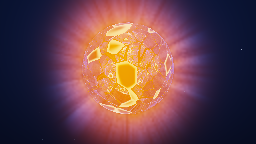
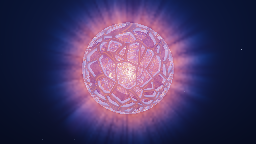
T1141: E55 Reactor — a skeleton, not a paper ball: relief struts, open rest state, recessed plates, the dive
The owner's read ("infinitely flat, like a paper ball … too many panels") was
right, and half the cause was mine: a filled panel is a flat polygon, and my
struts had no depth — a shading trick on a perfect sphere, every hit on one
surface, the silhouette a clean circle. Now: the outer shell's struts are a
signed-distance solid marched through the shell band, standing proud, occluding
the face behind and breaking the silhouette; at rest the outer shell has no
plates and each shell inward carries more, so closing is the shielding event
alone; a shut plate is recessed behind its frame (a shell of flush plates was a
pink balloon behind the fixed struts); the camera dives — wide, surface, one
continuous pass through the centre and out the far side, a half-turn swing back
— with the gaze held through the ball and turned back outside, plates read as
glass from inside and passed through on the lens; glints up, inner glass
clearer. Verified frame by frame at the surface, the centre and the far side.

Cost 16.3 ms wide, 17.1 ms over a whole tour (720p; was 18.1 — the panels
went). Look baseline on purpose: row 0.0405 → 0.0326, whole minute 0.1208 →
0.0851, range 0.854 → 0.871. Seven Dawn claims green, all gates green.
look-baselines.json committed without the Forest track's co-resident E57 row.

Claude-Session: https://claude.ai/code/session_01KHoYbvuVLAUaSYmDFm1CL3

diff --git a/src/examples/shaders/reactor.wgsl.ts b/src/examples/shaders/reactor.wgsl.ts
@@ -49,7 +49,8 @@ struct Params {
   layers: f32,        // how many nested shells around the core, 0 to 4
   divisions: f32,     // cells on the outermost shell — few and large, so adjacent facets differ in angle; inner shells carry more
   frameWidth: f32,    // width of the organic frame bars, as a share of a cell
-  blocked: f32,       // share of each shell's faces that are solid plates at rest — each shell blocks its own set
+  blocked: f32,       // share of the INNERMOST shell's faces that are plates at rest; each shell outward has fewer, the outer none — a skeleton you see through
+  strutDepth: f32,    // how far the outer shell's struts stand proud of its faces — the relief that makes the skeleton solid
   shieldOuter: f32,   // the outer shell's shielding, 0 open to 1 shut — driven by drops in the music
   shieldInner: f32,   // the inner shells' shielding, on a slower lag, so the shutters cascade inward
   shellGap: f32,      // radial spacing between shells, as a share of the outer radius — driven by the high-mids
@@ -71,7 +72,7 @@ struct Params {
   shellHueStep: f32,  // degrees of hue each shell inward sits from the shared angle — colour deepening toward the core
   orbit: f32,         // camera orbit rate
   distance: f32,      // camera distance at the wide station
-  stations: f32,      // how far the camera travels: 0 holds the wide shot, 1 visits the close-up and the inside
+  stations: f32,      // how far the camera travels: 0 holds the wide shot, 1 dives through the core and out the far side
   travel: f32,        // seconds for one tour of the three stations
   exposure: f32,      // master gain on the whole picture before the bloom
   hueDrift: f32,      // degrees per minute the whole lit palette turns — core, glass and beams together, the sky stays
@@ -256,7 +257,13 @@ fn barWidthAt(c: Cell, k: i32) -> f32 {
    and the hash salt both vary by shell, so every shell blocks a different set of cells and
    throws its own silhouette into the light. */
 fn blockedFace(c: Cell, k: i32) -> bool {
-  let rest = params.blocked * (0.7 + 0.3 * f32(k % 2 == 0));
+  // A filled panel is a flat polygon, and enough of them turn a skeleton into a paper ball
+  // (the owner's read, and it is right). At rest the outer shell has NONE; each shell inward
+  // carries more, so the core sits in containment you look through the open frame to see.
+  // Closing is the shielding event alone — rare, dramatic, temporary.
+  let n = max(layerCount() - 1, 1);
+  let depth = f32(k) / f32(n);
+  let rest = params.blocked * depth * depth;
   let shield = select(params.shieldInner, params.shieldOuter, k == 0);
   // The shutters: the shield raises the threshold every plate's hash is judged against, so
   // plates close in hash order — a cascade across the shell, not a texture change — and at
@@ -320,7 +327,7 @@ fn coreGlow(o: vec3f, d: vec3f) -> vec3f {
   let ahead = smoothstep(-0.3, 0.3, b);
   let g = coreGain() * ahead / (h2 * 6.0 + 0.15);
   let rn = clamp(sqrt(max(h2, 0.0)) / coreRadius(), 0.0, 1.0);
-  return g * 0.9 * coreTint(rn) + laser(normalize(o + d * max(b, 0.0))) * 0.08 * coreRGB();
+  return g * 1.4 * coreTint(rn) + laser(normalize(o + d * max(b, 0.0))) * 0.08 * coreRGB();
 }
 
 fn fresnel(cosI: f32, eta: f32) -> f32 {
@@ -377,7 +384,7 @@ fn hazeSegment(o: vec3f, d: vec3f, t0: f32, t1: f32, jitter: f32, perUnit: f32) 
     let r = length(x);
     // Thin inside the ball so the shells read; the medium is for the beams OUTSIDE.
     // Thin between the shells, a bright skirt around the core, dense outside for the beams.
-    let dens = params.haze * (mix(0.22, 1.0, smoothstep(0.75, 1.05, r)) + 0.45 * smoothstep(0.7, 0.2, r))
+    let dens = params.haze * (mix(0.22, 1.0, smoothstep(0.75, 1.05, r)) + 0.3 * smoothstep(0.7, 0.2, r))
              * smoothstep(HAZE_R, OUTER_R * 0.8, r);
     // Streaks: any function of DIRECTION alone is constant along a radius, so a fine noise on
     // the direction reads as striation running with the beam rather than lumps sitting on it.
@@ -405,7 +412,9 @@ fn coreSegment(o: vec3f, d: vec3f, t0: f32, t1: f32, jitter: f32) -> vec4f {
     let rn = clamp(length(x) / rc, 0.0, 1.0);
     let shell = 1.0 - rn * rn;
     let churn = fbm3(x * (3.5 / rc) + vec3f(0.0, tm * 0.35, tm * 0.21) + vec3f(0.3 * sin(tm * 0.7)));
-    let dens = shell * (0.35 + params.turbulence * (churn - 0.3) * 2.2);
+    // Contrast in the churn is what keeps the core from reading as a smooth ball through
+    // the shells: the fbm is pushed hard around its mean and the floor is low.
+    let dens = shell * (0.12 + params.turbulence * (churn - 0.42) * 4.5);
     let fil = laser(normalize(x)) * smoothstep(0.0, 0.25, rn) * (1.0 - rn);
     let emit = coreGain() * (max(dens, 0.0) * 3.2 + fil * 1.6) * coreTint(rn)
              + coreGain() * 5.0 * smoothstep(0.6, 0.0, rn) * mix(vec3f(1.0, 0.97, 0.9), coreRGB(), 0.4);
@@ -428,7 +437,7 @@ fn shadeFrame(p: vec3f, n: vec3f, d: vec3f, k: i32, edge01: f32) -> vec3f {
   let base = frameRGBk(k);
   let lit = base * (0.04 + 0.9 * diff * light) * coreRGB()
           + base * 0.35 * light * mix(coreRGB(), vec3f(1.0), 0.3)
-          + light * 0.22 * coreRGB() * (0.5 + 0.5 * max(dot(n, -d), 0.0))
+          + light * 0.09 * mix(coreRGB(), vec3f(1.0), 0.5) * (0.5 + 0.5 * max(dot(n, -d), 0.0))
           + base * 0.25 * back * light * edgeRGB()
           + spec * light * 0.6 * mix(coreRGB(), vec3f(1.0), 0.5)
           + rim * light * 0.35 * edgeRGB()
@@ -439,6 +448,20 @@ fn shadeFrame(p: vec3f, n: vec3f, d: vec3f, k: i32, edge01: f32) -> vec3f {
 
 // ---------------------------------------------------------------- the walk
 fn hazeColour(w: vec2f) -> vec3f { return w.x * coreRGB() + w.y * edgeRGB(); }
+
+/* The outer shell's strut as a SOLID: a tube of radial depth strutDepth lying along every
+   cell border. Signed distance = max(distance from the shell band, distance from the border
+   band), in world units, so a ray can be marched through it and a strut can stand proud of
+   the faces, occlude the face behind it, and break the silhouette — the thing a shaded
+   sphere cannot do. Only the outer shell pays for this. */
+fn strutSdf(p: vec3f, k: i32) -> vec2f {
+  let R = shellRadius(k);
+  let c = cellEdge(shellDir(p, k), shellFreq(k), f32(k));
+  let w = barWidthAt(c, k);
+  let dr = abs(length(p) - R) - params.strutDepth;
+  let de = (c.edge - w) * R / shellFreq(k);
+  return vec2f(max(dr, de), select(0.0, 1.0, blockedFace(c, k)));
+}
 
 /* The first event along the straight ray from o: the nearest of every shell, the core
    boundary and the haze bound. Shared by both passes so they agree where the front ends. */
@@ -506,21 +529,78 @@ fn trace(ro: vec3f, rd: vec3f, jitter: f32, uv: vec2f) -> vec3f {
 
     // A shell surface. Frame bar, or glass face?
     let k = kind;
+    var sn = normalize(p);
+    var entering = dot(d, sn) < 0.0;
+
+    if (k == 0 && params.strutDepth > 0.001) {
+      // RELIEF. Walk the ray through the outer shell's band [R − depth, R + depth] against
+      // the strut solid; a hit is a strut with a real normal (sphere-radial on its crown,
+      // tangent on its flanks); no hit means the ray reached the face plane.
+      let R = shellRadius(0);
+      let depth = params.strutDepth;
+      let insideBand = length(o) < R + depth && length(o) > R - depth;
+      let tIn = select(sphereHit(o, d, R + depth), 0.0, insideBand);
+      var tw = max(tIn, 0.0);
+      // An eye inside the band itself (the dive passing through the shell) skips the solid:
+      // a strut sitting on the lens is a black frame, and the pass takes a few frames.
+      var hit = false;
+      if (insideBand) { tw = 1.0e9; }
+      var ph = p;
+      for (var st: i32 = 0; st < 10; st = st + 1) {
+        ph = o + d * tw;
+        let rr = length(ph);
+        if (rr > R + depth + 1.0e-3 && dot(ph, d) > 0.0) { break; }
+        if (rr < R - depth - 1.0e-3 && dot(ph, d) < 0.0) { break; }
+        let sd = strutSdf(ph, 0).x;
+        if (sd < 0.0015) { hit = true; break; }
+        tw = tw + max(sd, 0.004);
+      }
+      if (hit) {
+        let rr = length(ph);
+        let radial = normalize(ph);
+        let c = cellEdge(shellDir(ph, 0), shellFreq(0), 0.0);
+        let across = normalize(c.across - radial * dot(c.across, radial) + vec3f(1.0e-5));
+        let onCrown = smoothstep(0.0, depth * 0.6, abs(rr - R));
+        let ns = normalize(radial * sign(rr - R) * (0.35 + onCrown) + across * (1.0 - onCrown) * 0.9);
+        let prof = 1.0 - clamp((c.edge - 0.0) / max(barWidthAt(c, 0), 1.0e-4), 0.0, 1.0);
+        col = col + tp * shadeFrame(ph, ns, d, 0, prof);
+        tp = vec3f(0.0);
+        break;
+      }
+      // Reached the faces: continue at the sphere crossing as before.
+    }
+
     let cell = cellEdge(shellDir(p, k), shellFreq(k), f32(k));
     let w = barWidthAt(cell, k);
-    let sn = normalize(p);
-    let entering = dot(d, sn) < 0.0;
     let nOut = select(-sn, sn, entering);
 
-    if (blockedFace(cell, k)) {
-      // A shut plate is CONTAINED light, not a dead hull: the frame's material across the
-      // face, a seam that glows where the plate meets its strut, and a skin thin enough that
-      // the core's light shows through it as a dull heat.
-      let seam = smoothstep(w + 0.35, w, cell.edge);
-      let heat = coreLightBare(p) * 0.6;
-      col = col + tp * (shadeFrame(p, nOut, d, k, seam) * 0.75
-                        + seam * seam * heat * 1.4 * mix(coreRGB(), vec3f(1.0, 0.9, 0.7), 0.3)
-                        + heat * 0.035 * coreRGB() * max(dot(nOut, -d), 0.0));
+    // A plate within a hand's width of the lens (the dive passing through a shut shell) is
+    // read as glass: a plate ON the lens is a flat wall for the frames it takes to pass.
+    // And from INSIDE the ball (the dive) the plates are read as glass: the inside view is
+    // the skeleton around the core, not the backs of shutters.
+    if (blockedFace(cell, k) && tNext > 0.06 && length(ro) > shellRadius(0)) {
+      // A shut plate is RECESSED behind its frame — a shell of flush plates is a smooth
+      // sphere, and a smooth sphere is a balloon however it is lit (the owner's read). The
+      // ray continues to the inset surface; where it lands under a strut it has met the
+      // strut's inner wall, elsewhere the plate: CONTAINED light, not a dead hull — the
+      // frame's material across the face, a seam that glows where the plate meets its
+      // strut, and a skin thin enough that the core's light shows through as a dull heat.
+      let R = shellRadius(k);
+      let recess = max(params.strutDepth, 0.02) * 1.3;
+      let inset = select(R - recess, R + recess, !entering);
+      let t2 = sphereHit(o, d, inset);
+      var p2 = p;
+      if (t2 > tNext) { p2 = o + d * t2; }
+      let c2 = cellEdge(shellDir(p2, k), shellFreq(k), f32(k));
+      let w2 = barWidthAt(c2, k);
+      let wall = c2.edge < w2 * 1.6;
+      let n2 = select(nOut, normalize(c2.across - nOut * dot(c2.across, nOut) + vec3f(1.0e-5)) * -1.0, wall);
+      let seam = smoothstep(w2 + 0.3, w2, c2.edge);
+      let heat = coreLightBare(p2) * 0.6;
+      let plate = shadeFrame(p2, n2, d, k, seam) * select(0.75, 0.35, wall)
+                + seam * seam * heat * 1.4 * mix(coreRGB(), vec3f(1.0, 0.9, 0.7), 0.3)
+                + select(heat * 0.035 * coreRGB() * max(dot(n2, -d), 0.0), vec3f(0.0), wall);
+      col = col + tp * plate;
       tp = vec3f(0.0);
       break;
     }
@@ -544,11 +624,13 @@ fn trace(ro: vec3f, rd: vec3f, jitter: f32, uv: vec2f) -> vec3f {
     // vanishes the moment a face turns toward you (the owner's first note). The glass gets a
     // floor on its head-on reflectance, tinted its own colour, and a scatter term that
     // carries the same colour through the face under the core's light.
-    let F = max(fresnel(cosI, eta), 0.06);
-    let fTint = mix(vec3f(1.0), glassRGBk(k), 0.6);
+    // The outer shell's glass keeps a head-on floor (its colour must survive facing you);
+    // the inner shells' glass is clearer, or each one reads as a balloon behind the frame.
+    let F = max(fresnel(cosI, eta), select(0.02, 0.06, k == 0));
+    let fTint = mix(vec3f(1.0), glassRGBk(k), 0.8);
     let refl = reflect(d, nf);
     let lightHere = coreLightBare(p) * 0.6;
-    col = col + tp * glassRGBk(k) * 0.02 * lightHere;
+    col = col + tp * glassRGBk(k) * select(0.008, 0.02, k == 0) * lightHere;
     // The reflected share reads the core's glow, per channel offset by dispersion.
     let dsp = params.dispersion * 0.6;
     let gR = coreGlow(p, normalize(refl + across3(nf) * dsp)).r;
@@ -559,7 +641,7 @@ fn trace(ro: vec3f, rd: vec3f, jitter: f32, uv: vec2f) -> vec3f {
     let k2 = 1.0 - etaHere * etaHere * (1.0 - cosI * cosI);
     var t = refl;
     if (k2 >= 0.0) { t = normalize(etaHere * d + (etaHere * cosI - sqrt(k2)) * nf); }
-    tp = tp * (1.0 - F) * mix(vec3f(0.97), glassRGB() * 0.4 + 0.6, 0.18);
+    tp = tp * (1.0 - F) * mix(vec3f(0.97), glassRGB() * 0.4 + 0.6, select(0.08, 0.18, k == 0));
     d = t;
     o = p + d * 3.0e-4;
     if (max(max(tp.r, tp.g), tp.b) < 0.01) { break; }
@@ -587,17 +669,40 @@ fn fs(@location(0) uv: vec2f) -> @location(0) vec4f {
   // parallax away): wide, close on the shell surface with struts passing the lens, and
   // between the outer shells looking in at the core through the inner lattices. stations
   // scales how far from the wide shot the tour goes; 0 is the wide shot held.
-  let u = fract(t / max(params.travel, 1.0)) * 3.0;
-  let seg = floor(u);
-  let f = smoothstep(0.3, 0.7, fract(u));
+  // THE DIVE. One signed distance along the orbit's radial, in five legs: wide → close on
+  // the surface → THROUGH the centre → out the far side (a negative distance is the
+  // antipode) → wide again, looking back. Eased; struts sweep past the lens at the surface
+  // and the core fills the frame at the centre — the parallax a shell cannot fake.
   let wideD = max(params.distance, 1.2);
-  let dA = select(select(wideD, wideD * 0.52, seg == 1.0), 0.7, seg == 2.0);
-  let dB = select(select(wideD * 0.52, 0.7, seg == 1.0), wideD, seg == 2.0);
-  let dTour = mix(dA, dB, f);
-  let dist = mix(wideD, dTour, clamp(params.stations, 0.0, 1.0));
-  let eye = vec3f(dist * cos(a) * cos(el), dist * sin(el), dist * sin(a) * cos(el));
-  let aim = vec3f(0.0, -0.08, 0.0) * clamp(dist - 1.0, 0.0, 1.0);
-  let fwd = normalize(aim - eye);
+  let u = fract(t / max(params.travel, 1.0)) * 4.0;
+  let seg = floor(u);
+  let fu = fract(u);
+  // Legs 0 and 2 dwell at their ends; leg 1 — the dive — is ONE continuous motion through
+  // the centre with no dwell there: the core is passed at speed, never parked in.
+  let fDwell = smoothstep(0.2, 0.8, fu);
+  let fThrough = fu * fu * (3.0 - 2.0 * fu);
+  var dA = wideD; var dB = wideD; var f = fDwell;
+  if (seg == 0.0) { dA = wideD; dB = wideD * 0.55; }
+  else if (seg == 1.0) { dA = wideD * 0.55; dB = -wideD * 0.55; f = fThrough; }
+  else if (seg == 2.0) { dA = -wideD * 0.55; dB = -wideD; }
+  else { dA = -wideD; dB = -wideD; }
+  let stations = clamp(params.stations, 0.0, 1.0);
+  let dist = mix(wideD, mix(dA, dB, f), stations);
+  // The last leg swings half a turn around the ball at wide distance, which brings the
+  // antipode back to the near side for the next tour.
+  let swing = select(0.0, fDwell * PI, seg == 3.0) * stations;
+  let a2 = a + swing;
+  let radial = vec3f(cos(a2) * cos(el), sin(el), sin(a2) * cos(el));
+  let eye = radial * dist;
+  // Looking at the core from outside; through the dive the gaze holds its travel direction
+  // (a look-at through the centre would snap as the eye passes it), then eases back.
+  // Ahead only while INSIDE the ball; once out the far side the gaze turns back to the core
+  // over the next half unit of travel — "back out and around" is looking back at it.
+  let diving = smoothstep(1.25, 0.7, abs(dist));
+  let aimCentre = vec3f(0.0, -0.08, 0.0) * clamp(abs(dist) - 1.0, 0.0, 1.0);
+  let aimAhead = eye - radial * 2.0;
+  let aim = mix(aimCentre, aimAhead, diving);
+  let fwd = normalize(aim - eye + vec3f(0.0, 1.0e-4, 0.0));
   let right = normalize(cross(fwd, vec3f(0.0, 1.0, 0.0)));
   let upv = cross(right, fwd);
   let focal = 1.9;
@@ -614,6 +719,7 @@ fn fs(@location(0) uv: vec2f) -> @location(0) vec4f {
     // binding live and contributes nothing.
     let bed = textureSampleLevel(inputTexture, inputSampler, uv, 0.0).r * 0.0;
     var o = eye;
+    if (length(eye) < coreRadius()) { return vec4f(bed, 0.0, 0.0, 1.0); }
     if (length(eye) >= HAZE_R) {
       let tb = sphereHit(eye, rd, HAZE_R);
       if (tb < 0.0) { return vec4f(0.0, 0.0, 0.0, 1.0); }
@@ -626,7 +732,7 @@ fn fs(@location(0) uv: vec2f) -> @location(0) vec4f {
 
   // Exposure follows the station: the eye near the core sees the same radiance the wide
   // shot integrates over a whole disc, so the close and inside stations stop down.
-  let stop = mix(0.22, 1.0, smoothstep(0.5, wideD, dist));
+  let stop = mix(0.07, 1.0, smoothstep(0.15, wideD, abs(dist)));
   var col = trace(eye, rd, jitter, uv) * params.exposure * stop;
   // A gentle vignette keeps the eye on the ball.
   let vig = smoothstep(1.9, 0.4, length(q * vec2f(0.8, 1.0)));

diff --git a/src/examples/documents/reactor.ts b/src/examples/documents/reactor.ts
@@ -94,6 +94,30 @@ import { REACTOR_HAZE_WGSL, REACTOR_WGSL } from "../shaders/reactor.wgsl.ts";
  * three sines per lookup. The per-cell morph that doubled the Worley hash bill (23 ms) was
  * refused for the direction warp.
  *
+ * THE SKELETON PASS (the owner: "panels look super bad … infinitely flat, like a paper ball
+ * — not a 3D organic skeleton … too many panels, too cheap … dive into the centre and back
+ * out and around … play with the reflection stuff"). The diagnosis, and it is mine as much
+ * as his: a filled panel is a flat polygon, AND my struts had no depth — a shading trick on
+ * a perfect sphere, so every hit lay on one surface and the silhouette was a clean circle.
+ * A paper ball, whatever the shading did. What changed: (1) at rest the outer shell has NO
+ * plates and each shell inward carries more (blocked·(k/n)²), so the rest state is an open
+ * skeleton and closing is the shielding event alone; (2) the outer shell's struts are a
+ * SOLID — a signed-distance tube of depth strutDepth along every border, marched through
+ * the shell band at the outer crossings only — so they stand proud, occlude the face behind
+ * them and break the silhouette; (3) a shut plate is RECESSED behind its frame (a shell of
+ * flush plates is a smooth sphere however it is lit: the middle shell, shut by a collapse at
+ * f1000, read as a pink balloon behind the fixed struts until this), the ray continuing to
+ * the inset surface to meet the strut's inner wall or the plate; (4) the camera DIVES: four
+ * legs — wide, surface, one continuous pass through the centre and out the far side (never
+ * parked in the core: the first draft dwelt there four seconds looking at plate backs), a
+ * half-turn swing back — gaze held along the travel through the ball and turned back to the
+ * core once outside; inside the ball plates read as glass and a plate on the lens is passed
+ * through; (5) glints ×1.5, inner-shell glass clearer than the outer's. Cost: 16.3 ms at the
+ * wide shot, 17.1 ms averaged over a whole tour (720p, min of two), so the dive costs about
+ * a millisecond; the previous pass's 18.1 came down because the panels went. Motion, both
+ * windows: row 0.0326, whole minute 0.0851 (min 0.0302, max 0.1842, last gap 0.0650);
+ * range 0.854 → 0.871. Every step on purpose.
+ *
  * DUTY (§V903/§V914 — 3600 frames of the pattern through the lanes):
  *   coreGain    = 4.2·level    + 0.5   (env1) → 0.733..2.671, mean 1.14, above retained 75%, hold 0
  *   laserGain   = 4.7·low      − 3.0   (env1) → 0.307..1.583, mean 0.63, retained 0.6 ≈ mean, hold 0
@@ -162,9 +186,10 @@ export const reactorDocument = document(
           shieldOuter: expressionSlot("op('reactor1').par.shieldOuter", 0),
           shieldInner: expressionSlot("op('reactor1').par.shieldInner", 0),
           stations: expressionSlot("op('reactor1').par.stations", 1),
-          travel: expressionSlot("op('reactor1').par.travel", 54),
+          travel: expressionSlot("op('reactor1').par.travel", 75),
           frameWidth: expressionSlot("op('reactor1').par.frameWidth", 0.12),
-          blocked: expressionSlot("op('reactor1').par.blocked", 0.08),
+          blocked: expressionSlot("op('reactor1').par.blocked", 0.1),
+          strutDepth: expressionSlot("op('reactor1').par.strutDepth", 0.04),
           shellGap: expressionSlot("op('reactor1').par.shellGap", 0.2),
           swell: expressionSlot("op('reactor1').par.swell", 1),
           coreGain: expressionSlot("op('reactor1').par.coreGain", 1),
@@ -182,10 +207,11 @@ export const reactorDocument = document(
         source: REACTOR_WGSL,
         layers: 3,
         divisions: 4,
-        blocked: 0.08,
+        blocked: 0.1,
+        strutDepth: 0.04,
         ior: 1.45,
         dispersion: 0.35,
-        glassColor: [0.4, 0.75, 1, 1],
+        glassColor: [0.35, 0.72, 1, 1],
         coreColor: [1, 0.55, 0.2, 1],
         edgeColor: [0.25, 0.62, 1, 1],
         laserCount: 3,
@@ -198,7 +224,7 @@ export const reactorDocument = document(
         orbit: 1,
         distance: 3.2,
         stations: 1,
-        travel: 54,
+        travel: 75,
         exposure: 1.9,
         /* Colour evolution (round three): one hue angle turns core, glass and beams
            together, inside the shader, so the sky stays deep and the core/glass contrast
@@ -250,7 +276,7 @@ export const reactorDocument = document(
       }, { label: "gain1", parameters: { brightness: drivenSlot("blowb1:level", 1.3) } }),
       node("blur2", "blur", [600, 400], { filter: "gaussian", size: 42, extend: "hold" }, { label: "blur2" }),
       node("gain2", "level", [900, 400], {
-        blacklevel: 0, whitelevel: 1, brightness: 0.9, contrast: 1, gamma1: 1, invert: 0, opacity: 1,
+        blacklevel: 0, whitelevel: 1, brightness: 0.6, contrast: 1, gamma1: 1, invert: 0, opacity: 1,
       }, { label: "gain2" }),
       node("add", "add", [900, 0], { opacity: 1 }, { label: "add1" }),
       node("add2", "add", [1200, 0], { opacity: 1 }, { label: "add2" }),

diff --git a/examples/E55-Reactor.md b/examples/E55-Reactor.md
@@ -1,13 +1,13 @@
 # E55 — Reactor
 
-An alien disco ball lit from inside: a churning core marched as an emissive volume, a few large organic-framed glass facets per shell with finer shells within, a lattice that morphs, shutters that slam shut on a drop so the ball collapses to contained light and blazes back, a core that blows out on a swell, a camera that tours three stations, and a palette that turns over minutes. Two `customWgsl` passes from one shader, every knob on the main node's page.
+An alien disco ball lit from inside: a churning core marched as an emissive volume inside an open organic skeleton of a few large cells per shell with finer shells within, struts that stand proud of the faces, a lattice that morphs, shutters that slam shut on a drop so the ball collapses to contained light behind inset panels and blazes back, a core that blows out on a swell, a camera that dives through the centre and out the far side, and a palette that turns over minutes. Two `customWgsl` passes from one shader, every knob on the main node's page.
 
 ## Why it is one shader (T1141)
 
 The catalogue was read before this was shaped. The scene pipeline's glass is a screen-space read of what the opaque pass already drew, so glass behind glass does not refract; its lights are directional or point, with no medium a beam could be seen in. So `reactor1` does the optics itself, in E46 Lantern's lane taken into 3D:
 
 - **Analytic shells.** Every shell is a sphere, so a crossing is a quadratic, not a march. The ray hops from crossing to crossing, and the glass never shows a sphere-tracing artefact.
-- **The frame.** A 3D Worley partition of the direction splits each shell into organic cells: few and large on the outer shell (`divisions`), more on each shell inward, so adjacent facets differ sharply in angle and take visibly different Fresnel values. That contrast between neighbouring faces is what makes a faceted surface read as geometry; a fine lattice reads as one smooth gradient, which is a sprite. Within `frameWidth` of a border the ray has hit a strut, shaded as a lit body under the core with the core's light showing through the member, its width varying by cell so the frame reads as grown rather than extruded. A share of the faces (`blocked`) are plates at rest, a different set per shell. The lattice morphs (`morph`): the direction is warped by three slow travelling sines before the cells are read, so faces grow and shrink and borders travel without ever snapping; a cell's identity is its grid cell, so a plate or a facet's tilt never flickers while its shape moves.
+- **The frame.** A 3D Worley partition of the direction splits each shell into organic cells: few and large on the outer shell (`divisions`), more on each shell inward, so adjacent facets differ sharply in angle and take visibly different Fresnel values. That contrast between neighbouring faces is what makes a faceted surface read as geometry; a fine lattice reads as one smooth gradient, which is a sprite. Within `frameWidth` of a border the ray has hit a strut. On the outer shell the strut is a solid: a signed-distance tube of radial depth `strutDepth` along every border, marched through the shell band, so struts stand proud of the faces, occlude the face behind them and break the silhouette, which a shaded sphere cannot do and which is what separates a skeleton from a paper ball. Struts are lit bodies with the core's light showing through the member, their width varying by cell. At rest the outer shell has no plates at all; each shell inward carries more (`blocked` is the innermost's share), so the core sits in containment you look through the open frame to see. The lattice morphs (`morph`): the direction is warped by three slow travelling sines before the cells are read, so faces grow and shrink and borders travel without ever snapping; a cell's identity is its grid cell, so a plate or a facet's tilt never flickers while its shape moves.
 - **The glass.** Each face is a facet: the sphere normal tilted by a per-cell random vector scaled by `facet`. Schlick Fresnel splits the ray, with a floor on the head-on reflectance tinted `glassColor` so the glass keeps its colour when a face turns toward you. The reflected share reads the core's glow per channel offset by `dispersion`; the transmitted share bends by Snell and walks on.
 - **The haze.** A thin medium lit by the core, gated by every shell between the sample and the origin: bright through the faces, dark under the struts and plates. A fine noise on the direction striates the beams along their length.
 - **The core.** Inside the innermost shell an emissive fbm volume churns on `absTime`, white-hot at the centre through `coreColor` to `edgeColor` at the rim, cut by radial filaments (`laserCount`, `laserGain`).
@@ -16,17 +16,17 @@ The catalogue was read before this was shaped. The scene pipeline's glass is a s
 
 The medium outside the ball was the whole frame's cost, and a volumetric is low-frequency. `haze1` draws only the straight ray's front haze, at half resolution through the node's own resolution override (`scale 0.5`), as two colour-free weights; `reactor1` draws the geometry at the project resolution and reads the front haze back bilinearly, which also softens the beams and settles the grain. Every knob `haze1` needs mirrors `reactor1`'s by expression, driven lanes included.
 
-Measured on Dawn/Metal, the whole graph: about 13.5 ms a frame at 1280×720, about 25 ms at 1920×1080 (40 fps). The geometry pass alone is at the 60 fps budget at 1080p, so 1080p60 is not reachable for this design on this machine; the file ships at 1280×720. Set the project resolution to 1920×1080 if 40 fps is acceptable.
+Measured on Dawn/Metal, the whole graph at 1280×720: about 16 ms a frame at the wide shot and 17 ms averaged over the tour; about 25 ms at 1920×1080 before the relief and the tour (40 fps). The geometry pass alone is at the 60 fps budget at 1080p, so 1080p60 is not reachable for this design on this machine; the file ships at 1280×720. Set the project resolution to 1920×1080 if 40 fps is acceptable.
 
 ## The two gestures
 
-**The collapse.** A drop is a transition, not a quiet level, so the detector is the slope of the slowest envelope: `drop1` differentiates `env3`, `dropx1` and `dropb1` map the top few percent of falls onto 0 to 1 (a beat's decay never fires it; a pulled-back bar shuts it fully), `dropc1` clamps, and two lags with a fast rise and a slow release close the outer shell first (`shieldOuter`) and the inner shells after (`shieldInner`), so the shielding cascades inward and opens in the same order. A raised shield raises the threshold every plate's hash is judged against, so plates close in hash order across the shell; at 1 the shell is solid. While the outer shell is shut the core's own radiance dies back to a third and its colour cools toward the rim colour, so the ball collapses and the light goes out rather than a lid closing on a lamp; a shut plate is contained light, not a dead hull: its seams glow where it meets the struts, a twelfth of the light leaks through its skin into the haze, and the whole thing opens back to full on a slow release, so a collapse lands for a couple of seconds instead of flickering past. `armt1` holds the shutters open for the first three seconds, because the pattern's opening hit decays like a drop and the rest state is the radiating one. `dropx1` and `dropb1` are the sensitivity; a real track has its own numbers.
+**The collapse.** A drop is a transition, not a quiet level, so the detector is the slope of the slowest envelope: `drop1` differentiates `env3`, `dropx1` and `dropb1` map the top few percent of falls onto 0 to 1 (a beat's decay never fires it; a pulled-back bar shuts it fully), `dropc1` clamps, and two lags with a fast rise and a slow release close the outer shell first (`shieldOuter`) and the inner shells after (`shieldInner`), so the shielding cascades inward and opens in the same order. A raised shield raises the threshold every plate's hash is judged against, so plates close in hash order across the shell; at 1 the shell is solid. A shut plate is recessed behind its frame, because a shell of flush plates is a smooth sphere however it is lit; the ray continues to the inset surface and meets the strut's inner wall or the plate. While the outer shell is shut the core's own radiance dies back to a third and its colour cools toward the rim colour, so the ball collapses and the light goes out rather than a lid closing on a lamp; a shut plate is contained light, not a dead hull: its seams glow where it meets the struts, a twelfth of the light leaks through its skin into the haze, and the whole thing opens back to full on a slow release, so a collapse lands for a couple of seconds instead of flickering past. `armt1` holds the shutters open for the first three seconds, because the pattern's opening hit decays like a drop and the rest state is the radiating one. `dropx1` and `dropb1` are the sensitivity; a real track has its own numbers.
 
 **The escalation.** The tight bloom's gain rides `env3` with an aggressive range (`blowx1`, `blowb1`), so a sustained loud passage blows the core out and a quiet one lets it settle. The bloom is two widths: `cut1` remaps the highlights, `clamp1` floors the remap at zero (a Level is a remap, and a blurred negative field added back is a dark halo), `blur1` and `blur2` widen, `gain1` and `gain2` weight, `add1` and `add2` composite.
 
 ## The camera
 
-Three stations on the free-running clock, eased between (a cut would throw the parallax away): wide, close on the shell surface with struts passing the lens, and between the second and third shells looking in at the core through the finest lattice. `stations` scales how far from the wide shot the tour goes (0 holds the wide shot), `travel` is the seconds per tour, `orbit` the circling rate, and the exposure stops down as the eye nears the core. The orbit is wide enough that the shells slide across each other, which is the depth cue.
+A dive on the free-running clock, in four eased legs: wide, close on the shell surface with struts passing the lens, then one continuous pass through the centre and out the far side (never parked in the core), then a half-turn swing back at wide distance. The gaze holds its travel direction through the ball and turns back to the core once outside. `stations` scales how far from the wide shot the tour goes (0 holds the wide shot), `travel` is the seconds per tour, `orbit` the circling rate, and the exposure stops down as the eye nears the core. While the eye is inside the ball, plates read as glass and a plate on the lens is passed through, so the inside view is the skeleton around the core. Struts sweeping past the lens at close range is the strongest parallax there is.
 
 ## The knobs are the shader's own struct
 
